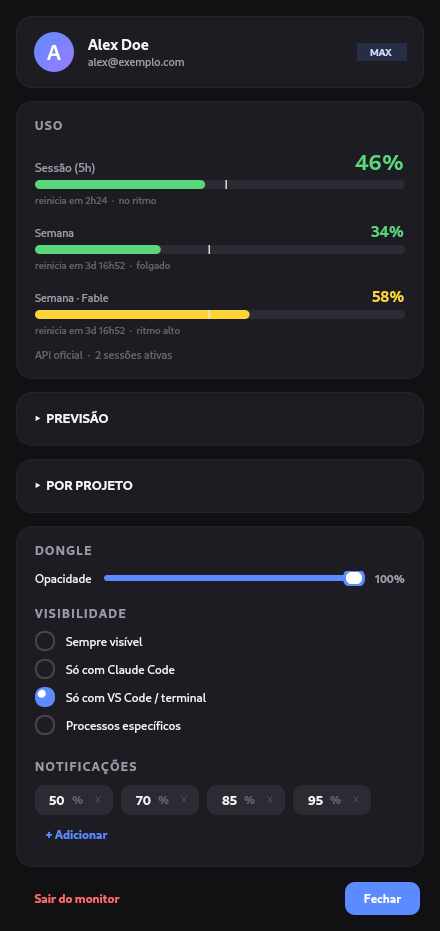
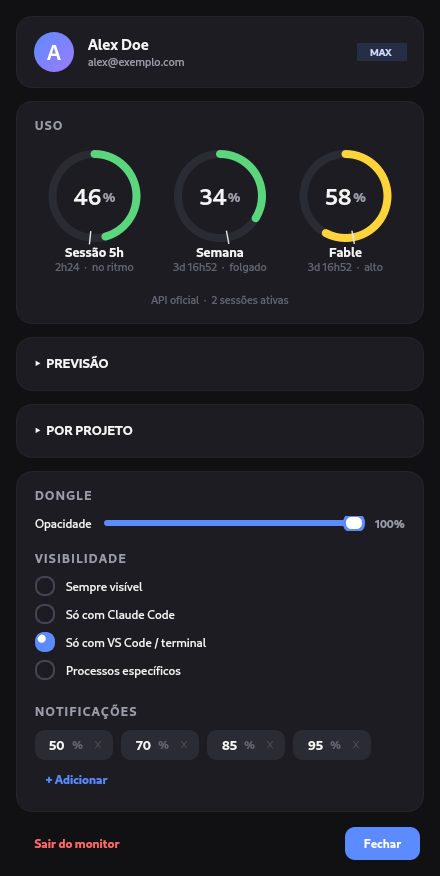
feat: seção Uso com medidores em anel (donut)
Troca as barras empilhadas por três anéis lado a lado (Sessão 5h, Semana e
cada modelo scoped), com % ao centro, cor por severidade e o marcador de
ritmo preservado como tick no anel. O raio encolhe sozinho quando há muitos
modelos. Painel ficou mais compacto e escaneável.

diff --git a/claude_monitor/dashboard_ui.py b/claude_monitor/dashboard_ui.py
@@ -1,4 +1,4 @@
-import os, sys, time, threading
+import os, sys, time, threading, math
 if sys.platform.startswith("linux"):
     os.environ.setdefault("QT_QPA_PLATFORM", "xcb")
 
@@ -15,11 +15,11 @@ def _fmt_tokens(n):
     return str(int(n))
 
 from PyQt6.QtWidgets import (QApplication, QWidget, QLabel, QVBoxLayout,
-                             QHBoxLayout, QFrame, QPushButton,
+                             QHBoxLayout, QFrame, QPushButton, QSizePolicy,
                              QSlider, QRadioButton, QButtonGroup, QLineEdit)
 from PyQt6.QtCore import Qt, QTimer, QRectF, QPointF
-from PyQt6.QtGui import (QPainter, QColor, QBrush, QFont, QPen, QPainterPath,
-                         QLinearGradient)
+from PyQt6.QtGui import (QPainter, QColor, QBrush, QFont, QFontMetrics, QPen,
+                         QPainterPath, QLinearGradient)
 
 REFRESH_MS = 5000
 TICK_MS = 1000          # countdown ao vivo (só recomputa textos de tempo)
@@ -157,68 +157,104 @@ class UsageBar(QWidget):
         p.end()
 
 
-class UsageRow(QWidget):
-    """Label + big percent + bar + reset countdown for one rate limit."""
+class UsageRing(QWidget):
+    """Medidor em anel: trilho + arco por severidade, um tick de RITMO (onde o
+    consumo estaria no linear), o % ao centro e label/subtexto embaixo. Largura
+    flexível: o raio encolhe sozinho quando há muitos anéis lado a lado."""
 
-    def __init__(self, label, compact=False, parent=None):
+    DIAM = 84
+    TH = 8
+
+    def __init__(self, label, parent=None):
         super().__init__(parent)
-        self._pct_size = 15 if compact else 22
-        box = QVBoxLayout(self)
-        box.setContentsMargins(0, 0, 0, 0)
-        box.setSpacing(5)
-
-        top = QHBoxLayout()
-        top.setContentsMargins(0, 0, 0, 0)
-        self.lbl = QLabel(label)
-        self.lbl.setStyleSheet(
-            f"color: {FG2}; font-size: {'11px' if compact else '12px'};")
-        top.addWidget(self.lbl, 0, Qt.AlignmentFlag.AlignBottom)
-        top.addStretch()
-        self.pct = QLabel("--")
-        self._set_pct_color(FG3)
-        top.addWidget(self.pct, 0, Qt.AlignmentFlag.AlignBottom)
-        box.addLayout(top)
-
-        self.bar = UsageBar()
-        box.addWidget(self.bar)
-
-        self.sub = QLabel("")
-        self.sub.setStyleSheet(f"color: {FG3}; font-size: 10px;")
-        self.sub.hide()
-        box.addWidget(self.sub)
-
-    def _set_pct_color(self, c):
-        self.pct.setStyleSheet(
-            f"color: {c}; font-size: {self._pct_size}px; font-weight: 700;")
+        self._label = label
+        self._pct = None
+        self._color = QColor(FG3)
+        self._pace = None
+        self._sub = ""
+        self.setSizePolicy(QSizePolicy.Policy.Expanding, QSizePolicy.Policy.Fixed)
+        self.setMinimumWidth(76)
+        self.setFixedHeight(self.DIAM + 46)
 
     def set_data(self, pct, seconds, stale, window_s=None):
+        self._pct = pct
         if pct is None:
-            self.pct.setText("--")
-            self._set_pct_color(FG3)
-            self.bar.set_value(None, FG3)
-            self.sub.hide()
+            self._color = QColor(FG3)
+            self._pace = None
+            self._sub = ""
+            self.update()
             return
-        c = FG3 if stale else color(pct)
+        self._color = QColor(FG3 if stale else color(pct))
         pace = None
         if window_s and seconds is not None:
             pace = max(0.0, min(1.0, 1 - seconds / window_s))
-        self.pct.setText(f"{pct:.0f}%")
-        self._set_pct_color(c)
-        self.bar.set_value(pct, c, pace)
-        if seconds is not None:
-            sub = f"reinicia em {fmt_time(seconds)}"
-            if pace is not None and not stale:  # uso vs. tempo decorrido
-                expected = pace * 100
-                if pct > expected + 8:
-                    sub += "  ·  ritmo alto"
-                elif pct < expected - 8:
-                    sub += "  ·  folgado"
-                else:
-                    sub += "  ·  no ritmo"
-            self.sub.setText(sub)
-            self.sub.show()
-        else:
-            self.sub.hide()
+        self._pace = pace
+        sub = fmt_time(seconds) if seconds is not None else ""
+        if pace is not None and not stale:  # uso vs. tempo decorrido
+            expected = pace * 100
+            if pct > expected + 8:
+                sub += "  ·  alto"
+            elif pct < expected - 8:
+                sub += "  ·  folgado"
+            else:
+                sub += "  ·  no ritmo"
+        self._sub = sub
+        self.update()
+
+    def paintEvent(self, event):
+        p = QPainter(self)
+        p.setRenderHint(QPainter.RenderHint.Antialiasing)
+        p.setRenderHint(QPainter.RenderHint.TextAntialiasing)
+        w = self.width()
+        R = min(self.DIAM, w - 10) / 2
+        cx, cy = w / 2, R + 5
+        rect = QRectF(cx - R, cy - R, 2 * R, 2 * R)
+
+        pen = QPen(QColor(BG3), self.TH)
+        pen.setCapStyle(Qt.PenCapStyle.RoundCap)
+        p.setPen(pen)
+        p.setBrush(Qt.BrushStyle.NoBrush)
+        p.drawArc(rect, 0, 360 * 16)
+        if self._pct is not None and self._pct > 0:  # arco: topo, sentido horário
+            pen2 = QPen(self._color, self.TH)
+            pen2.setCapStyle(Qt.PenCapStyle.RoundCap)
+            p.setPen(pen2)
+            p.drawArc(rect, 90 * 16, -int(min(self._pct, 100) / 100 * 360) * 16)
+        if self._pace is not None and 0.02 < self._pace < 0.99:
+            ang = math.radians(90 - self._pace * 360)
+            r0, r1 = R - self.TH / 2 - 2, R + self.TH / 2 + 2
+            cs, sn = math.cos(ang), math.sin(ang)
+            p.setPen(QPen(QColor("#e8e8e8"), 1.4))
+            p.drawLine(QPointF(cx + r0 * cs, cy - r0 * sn),
+                       QPointF(cx + r1 * cs, cy - r1 * sn))
+
+        # % ao centro: número grande + '%' menor, ambos escalam com o raio
+        num = f"{self._pct:.0f}" if self._pct is not None else "--"
+        fn = QFont(UI_FONT, max(11, int(R * 0.42)), QFont.Weight.Bold)
+        fm = QFontMetrics(fn)
+        nw = fm.horizontalAdvance(num)
+        fs = QFont(UI_FONT, max(8, int(R * 0.26)), QFont.Weight.DemiBold)
+        sw = QFontMetrics(fs).horizontalAdvance("%") if self._pct is not None else 0
+        bx = cx - (nw + sw + 1) / 2
+        p.setFont(fn)
+        p.setPen(QPen(QColor(FG if self._pct is not None else FG3)))
+        p.drawText(QRectF(bx, cy - R, nw + 4, 2 * R),
+                   Qt.AlignmentFlag.AlignLeft | Qt.AlignmentFlag.AlignVCenter, num)
+        if self._pct is not None:
+            p.setFont(fs)
+            p.setPen(QPen(QColor(FG2)))
+            p.drawText(QRectF(bx + nw + 1, cy - R + 1, sw + 4, 2 * R),
+                       Qt.AlignmentFlag.AlignLeft | Qt.AlignmentFlag.AlignVCenter, "%")
+
+        # label + subtexto
+        p.setFont(QFont(UI_FONT, 10, QFont.Weight.DemiBold))
+        p.setPen(QPen(QColor(FG)))
+        p.drawText(QRectF(0, cy + R + 6, w, 15), Qt.AlignmentFlag.AlignHCenter, self._label)
+        if self._sub:
+            p.setFont(QFont(UI_FONT, 8))
+            p.setPen(QPen(QColor(FG3)))
+            p.drawText(QRectF(0, cy + R + 22, w, 13), Qt.AlignmentFlag.AlignHCenter, self._sub)
+        p.end()
 
 
 class SparklineWidget(QWidget):
@@ -440,7 +476,7 @@ class DashboardWidget(QWidget):
         super().__init__()
         self.cfg = cfg
         self.dongle = dongle
-        self._scoped_rows = {}
+        self._scoped_rings = {}
         self._last_u = None
 
         self.setObjectName("dashRoot")
@@ -606,21 +642,22 @@ class DashboardWidget(QWidget):
         hbox.addLayout(head)
         main.addWidget(hcard)
 
-        # ---- Uso (destaque) ----
+        # ---- Uso (destaque) — medidores em anel ----
         ucard, ubox = self._card()
         ubox.addWidget(self._card_title("Uso"))
-        ubox.addSpacing(15)
-        self.bars_box = QVBoxLayout()
-        self.bars_box.setContentsMargins(0, 0, 0, 0)
-        self.bars_box.setSpacing(16)
-        self.row_5h = UsageRow("Sessão (5h)")
-        self.row_7d = UsageRow("Semana", compact=True)
-        self.bars_box.addWidget(self.row_5h)
-        self.bars_box.addWidget(self.row_7d)
-        ubox.addLayout(self.bars_box)
-        ubox.addSpacing(12)
+        ubox.addSpacing(16)
+        self.rings_box = QHBoxLayout()
+        self.rings_box.setContentsMargins(0, 0, 0, 0)
+        self.rings_box.setSpacing(6)
+        self.ring_5h = UsageRing("Sessão 5h")
+        self.ring_7d = UsageRing("Semana")
+        self.rings_box.addWidget(self.ring_5h)
+        self.rings_box.addWidget(self.ring_7d)
+        ubox.addLayout(self.rings_box)
+        ubox.addSpacing(14)
         self.meta = QLabel("")
         self.meta.setStyleSheet(f"color: {FG3}; font-size: 11px;")
+        self.meta.setAlignment(Qt.AlignmentFlag.AlignHCenter)
         ubox.addWidget(self.meta)
         main.addWidget(ucard)
 
@@ -791,20 +828,20 @@ class DashboardWidget(QWidget):
             return max(0, int(epoch - now)) if epoch else fallback
 
         pct_5h = u.get("pct_5h")
-        self.row_5h.setVisible(pct_5h is not None)
-        self.row_5h.set_data(
+        self.ring_5h.setVisible(pct_5h is not None)
+        self.ring_5h.set_data(
             pct_5h, until(u.get("reset_5h_epoch"), u.get("seconds_until_reset_5h")),
             stale, WINDOW_5H)
 
         breakdown = u.get("weekly_breakdown") or []
         general = next((w for w in breakdown if w.get("kind") == "weekly_all"), None)
         if general:
-            self.row_7d.set_data(
+            self.ring_7d.set_data(
                 general.get("pct"),
                 until(general.get("reset"), u.get("seconds_until_reset")),
                 stale, WINDOW_7D)
         else:
-            self.row_7d.set_data(
+            self.ring_7d.set_data(
                 u.get("pct_7d", u.get("pct")),
                 until(u.get("reset_7d_epoch"), u.get("seconds_until_reset")),
                 stale, WINDOW_7D)
@@ -815,15 +852,15 @@ class DashboardWidget(QWidget):
                 continue
             model = w.get("model") or "por modelo"
             seen.add(model)
-            row = self._scoped_rows.get(model)
-            if row is None:
-                row = UsageRow(f"Semana · {model}", compact=True)
-                self._scoped_rows[model] = row
-                self.bars_box.addWidget(row)
-            row.set_data(w.get("pct"), until(w.get("reset")), stale, WINDOW_7D)
-        for model in list(self._scoped_rows):
+            ring = self._scoped_rings.get(model)
+            if ring is None:
+                ring = UsageRing(model)
+                self._scoped_rings[model] = ring
+                self.rings_box.addWidget(ring)
+            ring.set_data(w.get("pct"), until(w.get("reset")), stale, WINDOW_7D)
+        for model in list(self._scoped_rings):
             if model not in seen:
-                self._scoped_rows.pop(model).deleteLater()
+                self._scoped_rings.pop(model).deleteLater()
 
     def _render_forecast(self, u):
         now = time.time()
